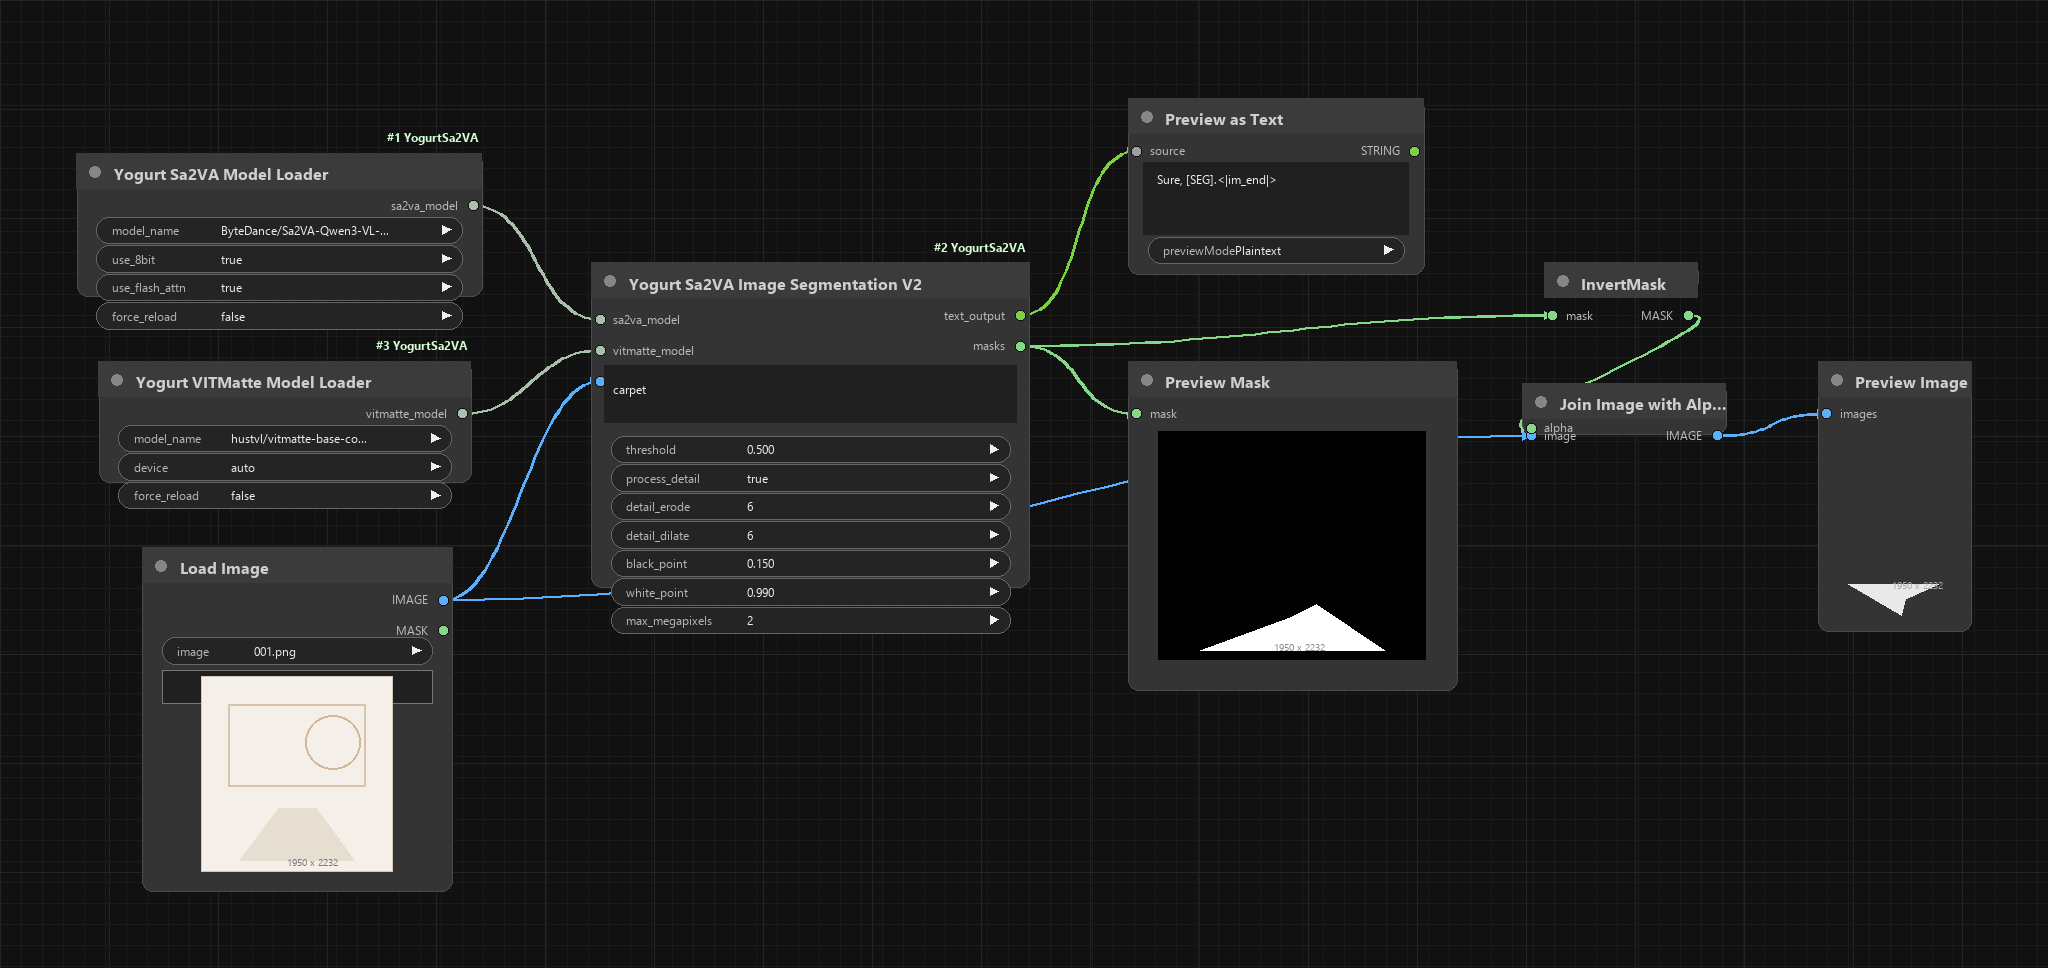
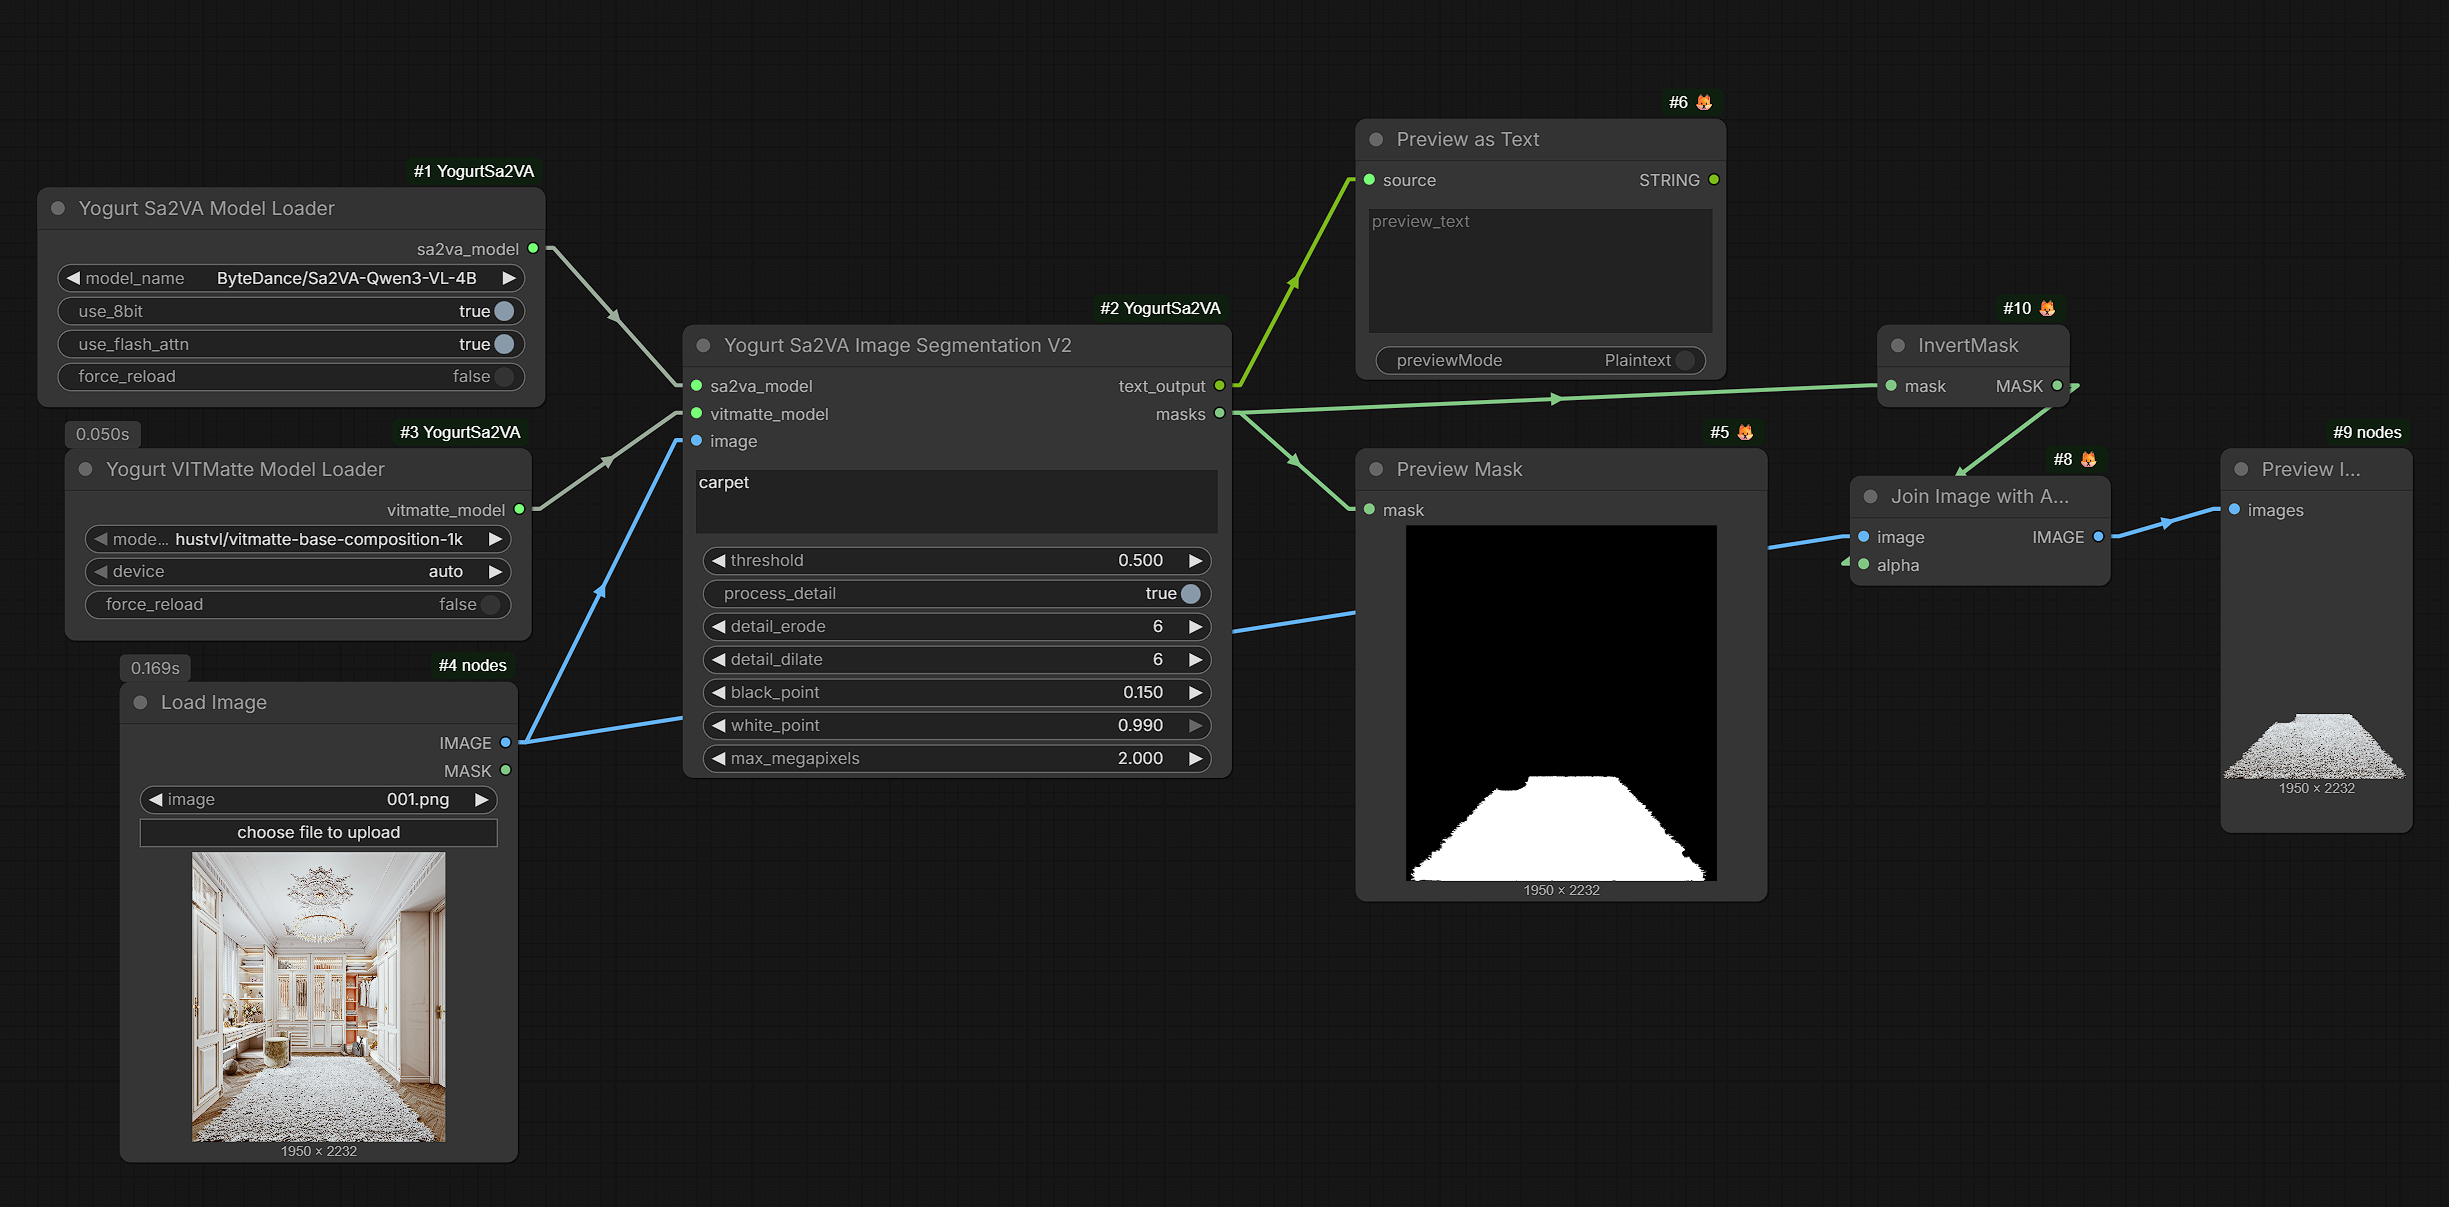
Update README model links and workflow screenshot

Changed region(s): [[0.0, 0.093, 1.0, 0.9607], [0.5312, 0.093, 0.6562, 0.2169]]

diff --git a/README.md b/README.md
@@ -133,22 +133,22 @@ ComfyUI/models/vitmatte/vitmatte-small-composition-1k/config.json
 
 Sa2VA Loader 默认包含以下候选：
 
-```text
-kumuji/Sa2VA-i-1B
-ByteDance/Sa2VA-Qwen3-VL-4B
-ByteDance/Sa2VA-InternVL3-2B
-ByteDance/Sa2VA-Qwen2_5-VL-3B
-ByteDance/Sa2VA-Qwen2_5-VL-7B
-ByteDance/Sa2VA-InternVL3-8B
-ByteDance/Sa2VA-InternVL3-14B
-```
+| 模型名 | Hugging Face |
+| --- | --- |
+| `kumuji/Sa2VA-i-1B` | [huggingface.co/kumuji/Sa2VA-i-1B](https://huggingface.co/kumuji/Sa2VA-i-1B) |
+| `ByteDance/Sa2VA-Qwen3-VL-4B` | [huggingface.co/ByteDance/Sa2VA-Qwen3-VL-4B](https://huggingface.co/ByteDance/Sa2VA-Qwen3-VL-4B) |
+| `ByteDance/Sa2VA-InternVL3-2B` | [huggingface.co/ByteDance/Sa2VA-InternVL3-2B](https://huggingface.co/ByteDance/Sa2VA-InternVL3-2B) |
+| `ByteDance/Sa2VA-Qwen2_5-VL-3B` | [huggingface.co/ByteDance/Sa2VA-Qwen2_5-VL-3B](https://huggingface.co/ByteDance/Sa2VA-Qwen2_5-VL-3B) |
+| `ByteDance/Sa2VA-Qwen2_5-VL-7B` | [huggingface.co/ByteDance/Sa2VA-Qwen2_5-VL-7B](https://huggingface.co/ByteDance/Sa2VA-Qwen2_5-VL-7B) |
+| `ByteDance/Sa2VA-InternVL3-8B` | [huggingface.co/ByteDance/Sa2VA-InternVL3-8B](https://huggingface.co/ByteDance/Sa2VA-InternVL3-8B) |
+| `ByteDance/Sa2VA-InternVL3-14B` | [huggingface.co/ByteDance/Sa2VA-InternVL3-14B](https://huggingface.co/ByteDance/Sa2VA-InternVL3-14B) |
 
 VITMatte Loader 默认包含：
 
-```text
-hustvl/vitmatte-base-composition-1k
-hustvl/vitmatte-small-composition-1k
-```
+| 模型名 | Hugging Face |
+| --- | --- |
+| `hustvl/vitmatte-base-composition-1k` | [huggingface.co/hustvl/vitmatte-base-composition-1k](https://huggingface.co/hustvl/vitmatte-base-composition-1k) |
+| `hustvl/vitmatte-small-composition-1k` | [huggingface.co/hustvl/vitmatte-small-composition-1k](https://huggingface.co/hustvl/vitmatte-small-composition-1k) |
 
 如果本地没有找到对应目录，Transformers 会按模型名尝试从 Hugging Face 下载。
 
